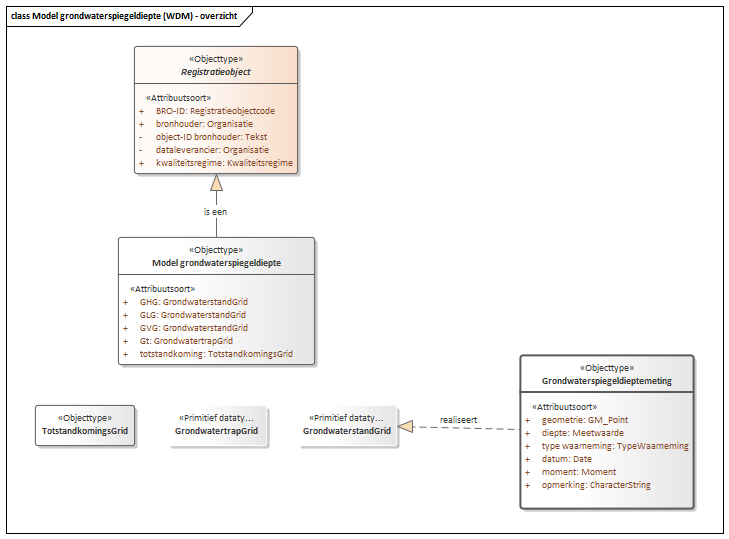
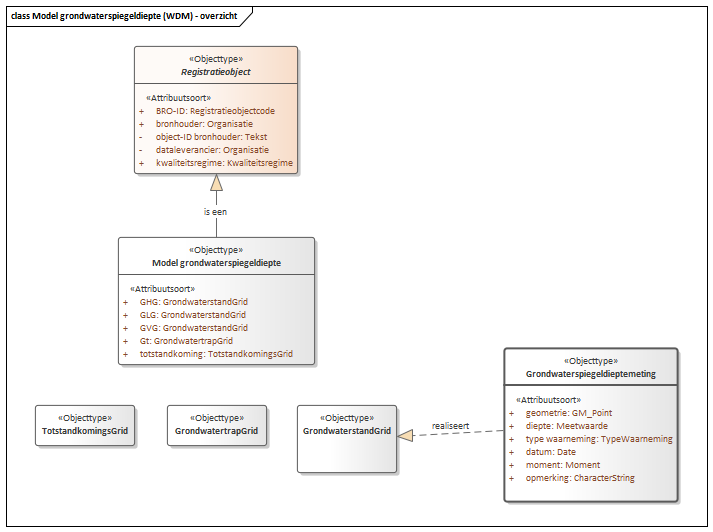
Conceptualmodel-ModelgrondwaterspiegeldiepteWDM-conceptueel-1.0-1-20200721-20201001-103852

Changed region(s): [[0.0, 0.0, 0.4628, 0.6917], [0.0309, 0.6316, 0.9565, 0.9624], [0.9874, 0.0, 1.0, 0.9925]]

diff --git a/data/WDM-cat.msword.html b/data/WDM-cat.msword.html
@@ -15,7 +15,7 @@
    <body>
       <p>Conceptual model/Model grondwaterspiegeldiepte (WDM) - conceptueel/20200721</p>
       <p>Imvertor: 1.61.3</p>
-      <p>Model release: Conceptualmodel-ModelgrondwaterspiegeldiepteWDM-conceptueel-1.0-1-20200721-20201001-102719</p>
+      <p>Model release: Conceptualmodel-ModelgrondwaterspiegeldiepteWDM-conceptueel-1.0-1-20200721-20201001-103852</p>
       <hr>
       <section>
          <h1>Artikel 1 Definitie van registratieobject, entiteiten en attributen</h1>
@@ -50,7 +50,7 @@
          <section>
             <h2>Het domeinmodel</h2>
             <section id="">
-               <div class="imageinfo overview"><img src="Images/EAID_23D6F4AE_F3A4_4b22_8E9B_53F36103A1B8.png" usemap="#imagemap-EAID_23D6F4AE_F3A4_4b22_8E9B_53F36103A1B8" alt="Diagram "><map name="imagemap-EAID_23D6F4AE_F3A4_4b22_8E9B_53F36103A1B8"><area shape="rect" alt="TotstandkomingsGrid" coords="35,405,135,446" href="#graph_EAID_E9549C5B_F23F_4c4c_A750_903673D32AE1"><area shape="rect" alt="Grondwaterspiegeldieptemeting" coords="520,355,694,509" href="#graph_EAID_BEAD8A51_C8E2_4fb6_8DF2_52ED4E1FB678"><area shape="rect" alt="Registratieobject" coords="134,46,298,174" href="#graph_EAID_3A7AEE32_4ECA_4822_9009_121A0679605E"><area shape="rect" alt="Model grondwaterspiegeldiepte" coords="118,237,315,365" href="#graph_EAID_FCE5BAFD_33CD_4c9b_878F_04A61B1ED0BE"></map><p><b>Model grondwaterspiegeldiepte (WDM)</b></p>
+               <div class="imageinfo overview"><img src="Images/EAID_23D6F4AE_F3A4_4b22_8E9B_53F36103A1B8.png" usemap="#imagemap-EAID_23D6F4AE_F3A4_4b22_8E9B_53F36103A1B8" alt="Diagram "><map name="imagemap-EAID_23D6F4AE_F3A4_4b22_8E9B_53F36103A1B8"><area shape="rect" alt="GrondwaterstandGrid" coords="297,405,397,473" href="#graph_EAID_7EAC036C_79CB_485d_9E16_E5A23DFA6E3E"><area shape="rect" alt="TotstandkomingsGrid" coords="35,405,135,446" href="#graph_EAID_E9549C5B_F23F_4c4c_A750_903673D32AE1"><area shape="rect" alt="GrondwatertrapGrid" coords="167,405,267,446" href="#graph_EAID_3609C38D_1F57_4e25_BB83_BE7F26BAB171"><area shape="rect" alt="Grondwaterspiegeldieptemeting" coords="504,348,678,502" href="#graph_EAID_BEAD8A51_C8E2_4fb6_8DF2_52ED4E1FB678"><area shape="rect" alt="Registratieobject" coords="134,46,298,174" href="#graph_EAID_3A7AEE32_4ECA_4822_9009_121A0679605E"><area shape="rect" alt="Model grondwaterspiegeldiepte" coords="118,237,315,365" href="#graph_EAID_FCE5BAFD_33CD_4c9b_878F_04A61B1ED0BE"></map><p><b>Model grondwaterspiegeldiepte (WDM)</b></p>
                </div>
             </section>
          </section>
@@ -537,6 +537,56 @@
                            <td>
                               
                               <p>Grid (coverage) met een toelichting op de totstandkoming van de GxG en Gt grids.</p>
+                              </td>
+                        </tr>
+                        <tr>
+                           <th>Toelichting</th>
+                           <td>De GxG en Gt komen per gebied tot stand. Een verwijzing naar een totstandkomingsrapport
+                              wordt expliciet per gridcel vastgelegd.
+                              
+                              
+                              </td>
+                        </tr>
+                     </tbody>
+                  </table>
+               </section><a class="anchor" id="graph_EAID_3609C38D_1F57_4e25_BB83_BE7F26BAB171"></a><a class="anchor" id="global_class_ModelGrondwaterspiegeldiepteWDM_GrondwatertrapGrid"></a><section id="global_class_ModelGrondwaterspiegeldiepteWDM_GrondwatertrapGrid">
+                  <h3>   GrondwatertrapGrid</h3>
+                  <div class="imageinfo "><img src="Images/EAID_B4B378B9_2D68_4655_9EB7_16623582B538.png" usemap="#imagemap-EAID_B4B378B9_2D68_4655_9EB7_16623582B538" alt="Diagram "><map name="imagemap-EAID_B4B378B9_2D68_4655_9EB7_16623582B538"><area shape="rect" alt="Grondwatertrappen" coords="227,362,327,737" href="#graph_EAID_A55B30AD_6B64_4f21_8856_B685E6F4CF09"><area shape="rect" alt="GrondwatertrapGrid" coords="207,227,347,267" href="#graph_EAID_3609C38D_1F57_4e25_BB83_BE7F26BAB171"></map><p><b></b></p>
+                  </div>
+                  <table style="width: 100%;">
+                     <colgroup style="width: 30%;"></colgroup>
+                     <colgroup style="width: 70%;"></colgroup>
+                     <tbody>
+                        <tr>
+                           <th>Type gegeven</th>
+                           <td>Entiteit</td>
+                        </tr>
+                        <tr>
+                           <th>Definitie</th>
+                           <td>
+                              
+                              <p>Grid (coverage) met de <em>best estimate</em> en een bepaald aantal realisaties (<em>trekkingen</em>) voor de classificatie van de grondwatertrap.</p>
+                              </td>
+                        </tr>
+                     </tbody>
+                  </table>
+               </section><a class="anchor" id="graph_EAID_7EAC036C_79CB_485d_9E16_E5A23DFA6E3E"></a><a class="anchor" id="global_class_ModelGrondwaterspiegeldiepteWDM_GrondwaterstandGrid"></a><section id="global_class_ModelGrondwaterspiegeldiepteWDM_GrondwaterstandGrid">
+                  <h3>   GrondwaterstandGrid</h3>
+                  <div class="imageinfo "><img src="Images/EAID_F6042F54_C062_4bff_BBF8_575498CFA374.png" usemap="#imagemap-EAID_F6042F54_C062_4bff_BBF8_575498CFA374" alt="Diagram "><map name="imagemap-EAID_F6042F54_C062_4bff_BBF8_575498CFA374"><area shape="rect" alt="GrondwaterstandGrid" coords="227,229,379,294" href="#graph_EAID_7EAC036C_79CB_485d_9E16_E5A23DFA6E3E"><area shape="rect" alt="Grondwaterspiegeldieptemeting" coords="273,422,447,576" href="#graph_EAID_BEAD8A51_C8E2_4fb6_8DF2_52ED4E1FB678"></map><p><b></b></p>
+                  </div>
+                  <table style="width: 100%;">
+                     <colgroup style="width: 30%;"></colgroup>
+                     <colgroup style="width: 70%;"></colgroup>
+                     <tbody>
+                        <tr>
+                           <th>Type gegeven</th>
+                           <td>Entiteit</td>
+                        </tr>
+                        <tr>
+                           <th>Definitie</th>
+                           <td>
+                              
+                              <p>Grid (coverage) met een <em>best estimate</em> en een bepaald aantal realisaties (<em>trekkingen</em>) <em> </em> voor de gemiddelde grondwaterstand.</p>
                               </td>
                         </tr>
                      </tbody>
